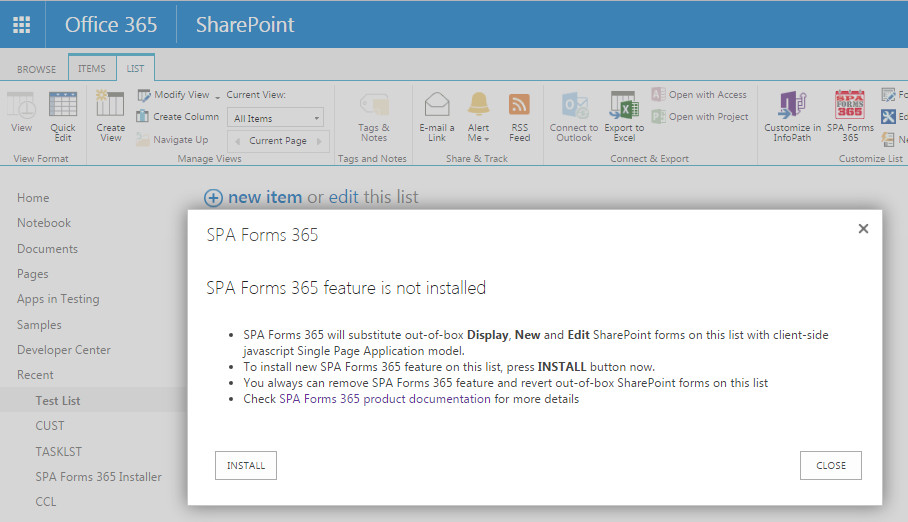
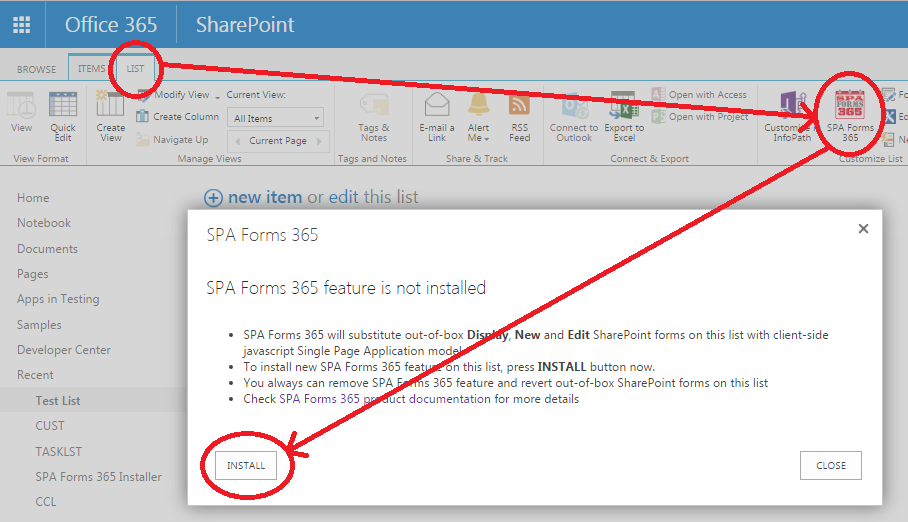
2

diff --git a/_docs/quickstart_old.md b/_docs/quickstart_old.md
@@ -1,0 +1,75 @@
+---
+title: Quick-start guide
+permalink: /docs/quickstart/
+---
+
+
+
+## Ensure SPA Forms 365 Add-in is added on SharePoint web site
+
+Go to <code>Site Contents</code> page on SharePoint site and verify that <code>SPA FORMS 365</code> app present. If you don't see the app at Site Contents page, then read and follow [Installation](/docs/installation) instructions.
+
+## Provision and configure SharePoint List
+
+Create new out-of-box custom or tasks list on your SharePoint web site. You may also use existing list and/or develop your list further at this time: add custom columns, etc. 
+
+<div class="note warning">
+  <h5>For lists provisioned on Office 365</h5>
+  <p>
+    SPA Forms 365 UI requires ribbon feature enabled on SharePoint List. In the meantime ribbon is not available by default on newly provisioned lists at Office 365. You must explicitly enable ribbon on list with SPA Forms 365.
+  </p>
+  <p>
+    Open <code>Settings</code> page on your list and select <code>Advanced Settings</code> section. Scroll to the bottom of page and switch your list into <code>Classic experience</code>.
+  </p>
+</div>
+
+Open <code>LIST</code> tab on ribbon at your SharePoint list. Locate and press <code>SPA Forms 365</code> button.
+<br/>
+![Image of Installer](/img/SPSForms365Installer1.PNG)
+
+
+If you already have a full [Ruby](https://www.ruby-lang.org/en/downloads/) development environment with all headers and [RubyGems](https://rubygems.org/pages/download) installed (see Jekyll's [requirements](/docs/installation/#requirements/)), you can create a new Jekyll site by doing the following:
+
+```sh
+# Install Jekyll and Bundler gems through RubyGems
+~ $ gem install jekyll bundler
+
+# Create a new Jekyll site at ./myblog
+~ $ jekyll new myblog
+
+# Change into your new directory
+~ $ cd myblog
+
+# Build the site on the preview server
+~/myblog $ bundle exec jekyll serve
+
+# Now browse to http://localhost:4000
+```
+
+If you encounter any unexpected errors during the above, please refer to the already-mentioned [requirements](/docs/installation/#requirements/) page, as you might be missing development headers or other prerequisites.
+
+## About Bundler
+
+`gem install jekyll bundler` installs the [jekyll](https://rubygems.org/gems/jekyll/) and [bundler](https://rubygems.org/gems/bundler) gems through [RubyGems](https://rubygems.org/). You need only to install the gems one time &mdash; not every time you create a new Jekyll project. Here are some additional details:
+
+* `bundler` is a gem that manages other Ruby gems. It makes sure your gems and gem versions are compatible, and that you have all necessary dependencies each gem requires.
+* The `Gemfile` and `Gemfile.lock` files inform Bundler about the gem requirements in your site. If your site doesn't have these Gemfiles, you can omit `bundle exec` and just run `jekyll serve`.
+
+* When you run `bundle exec jekyll serve`, Bundler uses the gems and versions as specified in `Gemfile.lock` to ensure your Jekyll site builds with no compatibility or dependency conflicts.
+
+## Options for creating a new site with Jekyll
+
+`jekyll new <PATH>` installs a new Jekyll site at the path specified (relative to current directory). In this case, Jekyll will be installed in a directory called `myblog`. Here are some additional details:
+
+* To install the Jekyll site into the directory you're currently in, run `jekyll new .` If the existing directory isn't empty, you can pass the `--force` option with `jekyll new . --force`.
+* `jekyll new` automatically initiates `bundle install` to install the dependencies required. (If you don't want Bundler to install the gems, use `jekyll new myblog --skip-bundle`.)
+* By default, the Jekyll site installed by `jekyll new` uses a gem-based theme called [Minima](https://github.com/jekyll/minima). With [gem-based themes](../themes), some of the directories and files are stored in the theme-gem, hidden from your immediate view.
+* We recommend setting up Jekyll with a gem-based theme but if you want to start with a blank slate, use `jekyll new myblog --blank`
+* To learn about other parameters you can include with `jekyll new`, type `jekyll new --help`.
+
+When in doubt, use the <code>help</code> command to remind you of all available options and usage, it also works with the <code>new</code>, <code>build</code> and <code>serve</code> subcommands, e.g. <code>jekyll help new</code> or <code>jekyll help build</code>.
+{: .note .info }
+
+## Next steps
+
+Building a Jekyll site with the default theme is just the first step. The real magic happens when you start creating blog posts, using the front matter to control templates and layouts, and taking advantage of all the awesome configuration options Jekyll makes available.

diff --git a/_docs/quickstart.md b/_docs/quickstart.md
@@ -11,7 +11,7 @@ Go to <code>Site Contents</code> page on SharePoint site and verify that <code>S
 
 ## Provision and configure SharePoint List
 
-Create new out-of-box custom or tasks list on your SharePoint web site. You may also use existing list and/or develop your list further at this time: add custom columns, etc. 
+~ Create new out-of-box custom or tasks list on your SharePoint web site. You may also use existing list and/or develop your list further at this time: add custom columns, etc. 
 
 <div class="note warning">
   <h5>For lists provisioned on Office 365</h5>
@@ -23,52 +23,11 @@ Create new out-of-box custom or tasks list on your SharePoint web site. You may 
   </p>
 </div>
 
-Open <code>LIST</code> tab on ribbon at your SharePoint list. Locate and press <code>SPA Forms 365</code> button.
+~ Provision SPA Forms 365 on your list. Open <code>LIST</code> tab on ribbon at your SharePoint list. Locate and press <code>SPA Forms 365</code> button to open SPA Forms 365 Installer dialog. Press <code>INSTALL</code> button to activate product instance on your list.
+<br/>
 <br/>
 ![Image of Installer](/img/SPSForms365Installer1.PNG)
 
-
-If you already have a full [Ruby](https://www.ruby-lang.org/en/downloads/) development environment with all headers and [RubyGems](https://rubygems.org/pages/download) installed (see Jekyll's [requirements](/docs/installation/#requirements/)), you can create a new Jekyll site by doing the following:
-
-```sh
-# Install Jekyll and Bundler gems through RubyGems
-~ $ gem install jekyll bundler
-
-# Create a new Jekyll site at ./myblog
-~ $ jekyll new myblog
-
-# Change into your new directory
-~ $ cd myblog
-
-# Build the site on the preview server
-~/myblog $ bundle exec jekyll serve
-
-# Now browse to http://localhost:4000
-```
-
-If you encounter any unexpected errors during the above, please refer to the already-mentioned [requirements](/docs/installation/#requirements/) page, as you might be missing development headers or other prerequisites.
-
-## About Bundler
-
-`gem install jekyll bundler` installs the [jekyll](https://rubygems.org/gems/jekyll/) and [bundler](https://rubygems.org/gems/bundler) gems through [RubyGems](https://rubygems.org/). You need only to install the gems one time &mdash; not every time you create a new Jekyll project. Here are some additional details:
-
-* `bundler` is a gem that manages other Ruby gems. It makes sure your gems and gem versions are compatible, and that you have all necessary dependencies each gem requires.
-* The `Gemfile` and `Gemfile.lock` files inform Bundler about the gem requirements in your site. If your site doesn't have these Gemfiles, you can omit `bundle exec` and just run `jekyll serve`.
-
-* When you run `bundle exec jekyll serve`, Bundler uses the gems and versions as specified in `Gemfile.lock` to ensure your Jekyll site builds with no compatibility or dependency conflicts.
-
-## Options for creating a new site with Jekyll
-
-`jekyll new <PATH>` installs a new Jekyll site at the path specified (relative to current directory). In this case, Jekyll will be installed in a directory called `myblog`. Here are some additional details:
-
-* To install the Jekyll site into the directory you're currently in, run `jekyll new .` If the existing directory isn't empty, you can pass the `--force` option with `jekyll new . --force`.
-* `jekyll new` automatically initiates `bundle install` to install the dependencies required. (If you don't want Bundler to install the gems, use `jekyll new myblog --skip-bundle`.)
-* By default, the Jekyll site installed by `jekyll new` uses a gem-based theme called [Minima](https://github.com/jekyll/minima). With [gem-based themes](../themes), some of the directories and files are stored in the theme-gem, hidden from your immediate view.
-* We recommend setting up Jekyll with a gem-based theme but if you want to start with a blank slate, use `jekyll new myblog --blank`
-* To learn about other parameters you can include with `jekyll new`, type `jekyll new --help`.
-
-When in doubt, use the <code>help</code> command to remind you of all available options and usage, it also works with the <code>new</code>, <code>build</code> and <code>serve</code> subcommands, e.g. <code>jekyll help new</code> or <code>jekyll help build</code>.
-{: .note .info }
 
 ## Next steps
 
